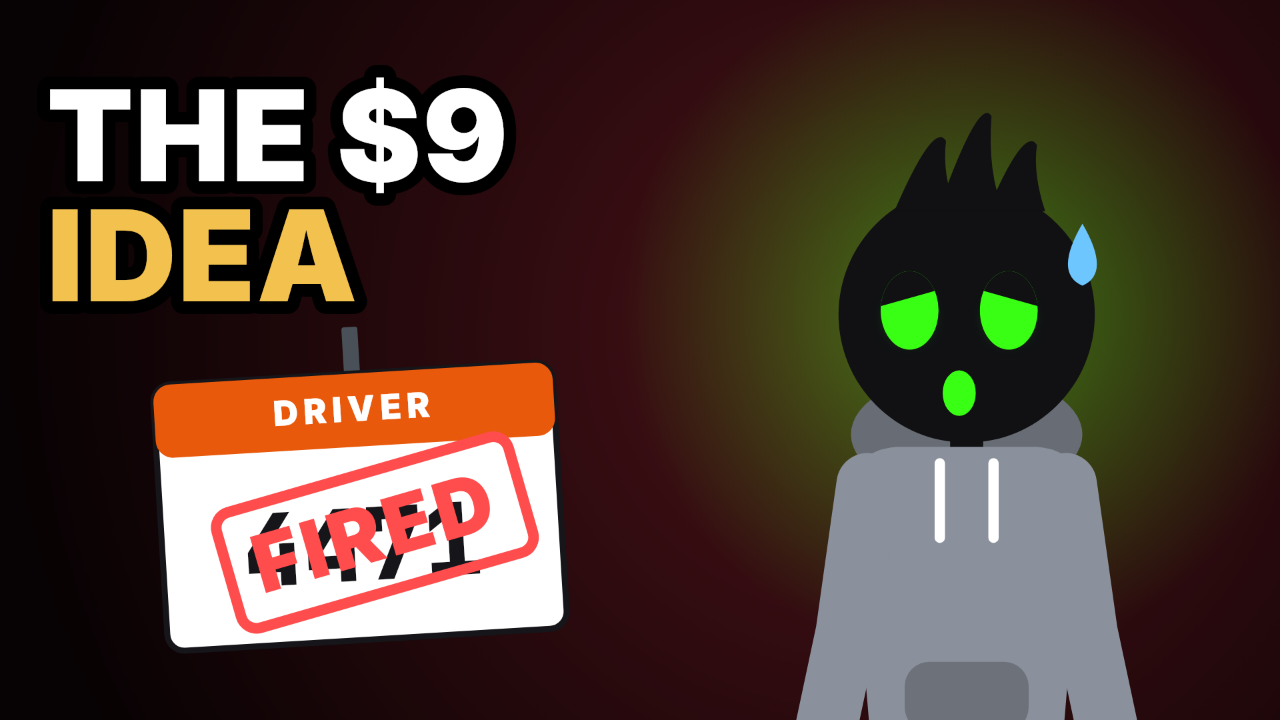
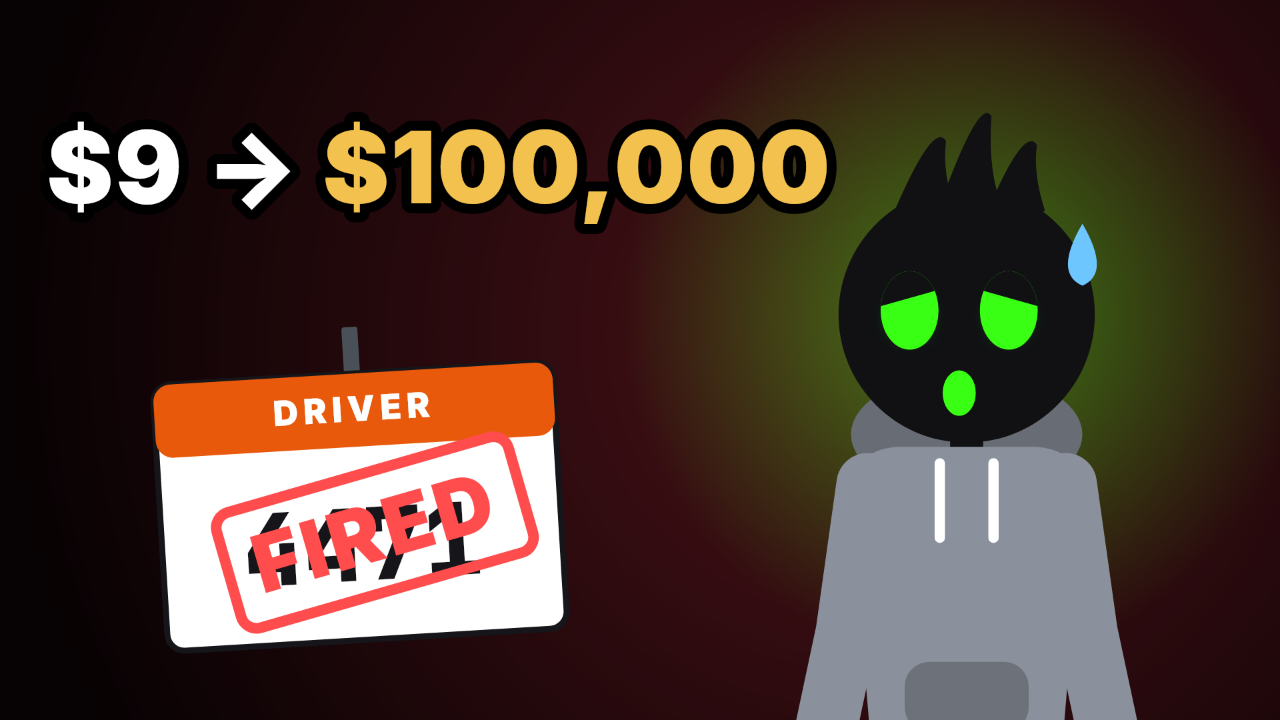
Episode 01 thumbnail: back to $9 → $100,000, lower
Claude-Session: https://claude.ai/code/session_01UubEVCKiae4fQMMXe8NSd5

Changed region(s): [[0.0312, 0.0917, 0.6562, 0.4583]]

diff --git a/episodes/01-nine-dollars/thumbnail.js b/episodes/01-nine-dollars/thumbnail.js
@@ -3,7 +3,7 @@ const path = require('path');
 const K = require('../../engine/kit');
 const { big, bust, stamp, halo, render } = require('../../engine/thumb');
 
-// "THE $9 IDEA", Kai, his driver badge stamped FIRED
+// "$9 → $100,000", Kai, his driver badge stamped FIRED
 render(path.join(__dirname, 'out', 'thumbnail.png'), () => {
   K.bg('#4a1218', '#070203', 1300, 500, 1300);
   K.at(540, 760, 1.0, () => {
@@ -13,5 +13,5 @@ render(path.join(__dirname, 'out', 'thumbnail.png'), () => {
     stamp('FIRED', 20, 40, 1.0, -0.22);
   }, -0.06);
   halo(1450, 470); bust('kai', 1450, 470, 3.1, 'worried', { look: -0.4 });
-  big('THE $9', 70, 215, 190, '#ffffff'); big('IDEA', 70, 395, 190, K.GOLD);
+  { const sz = 150; big('$9 →', 70, 260, sz, '#ffffff'); big('$100,000', 70 + K.textWidth('$9 → ', sz, false, 2), 260, sz, K.GOLD); }
 });
